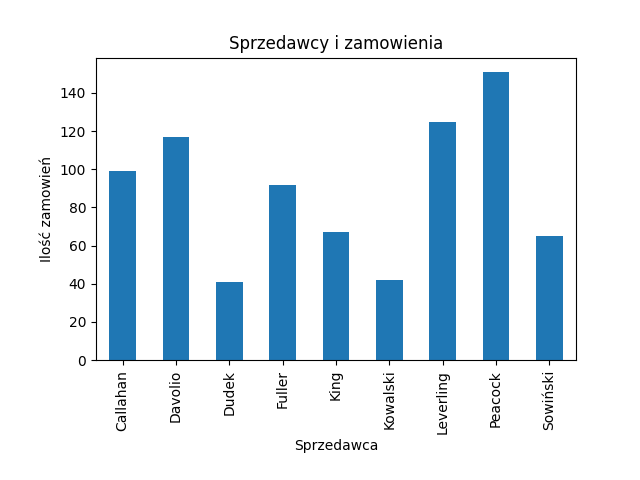
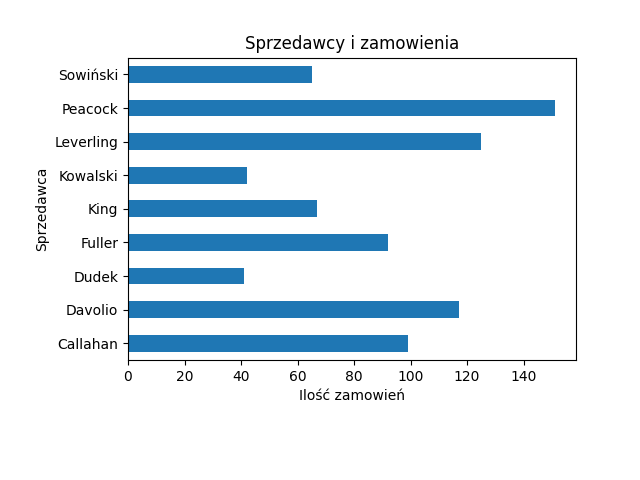
update

diff --git a/pandas wykresy.py b/pandas wykresy.py
@@ -39,11 +39,11 @@ import pandas as pd
 df=pd.read_csv("zamowienia.csv", index_col=0, sep=';', decimal='.')
 print(df)
 ilosc = df.groupby(["Sprzedawca"])['idZamowienia'].count()
-wykres = ilosc.plot.bar()
+wykres = ilosc.plot.barh()
 wykres.set_title("Sprzedawcy i zamowienia")
-wykres.set_xlabel("Sprzedawca")
-wykres.set_ylabel("Ilość zamowień")
-plt.subplots_adjust( bottom=0.25, left=0.15)
+wykres.set_ylabel("Sprzedawca")
+wykres.set_xlabel("Ilość zamowień")
+plt.subplots_adjust( bottom=0.25, left=0.2)
 plt.savefig("wykresy.png")
 plt.show()
 print(ilosc)
